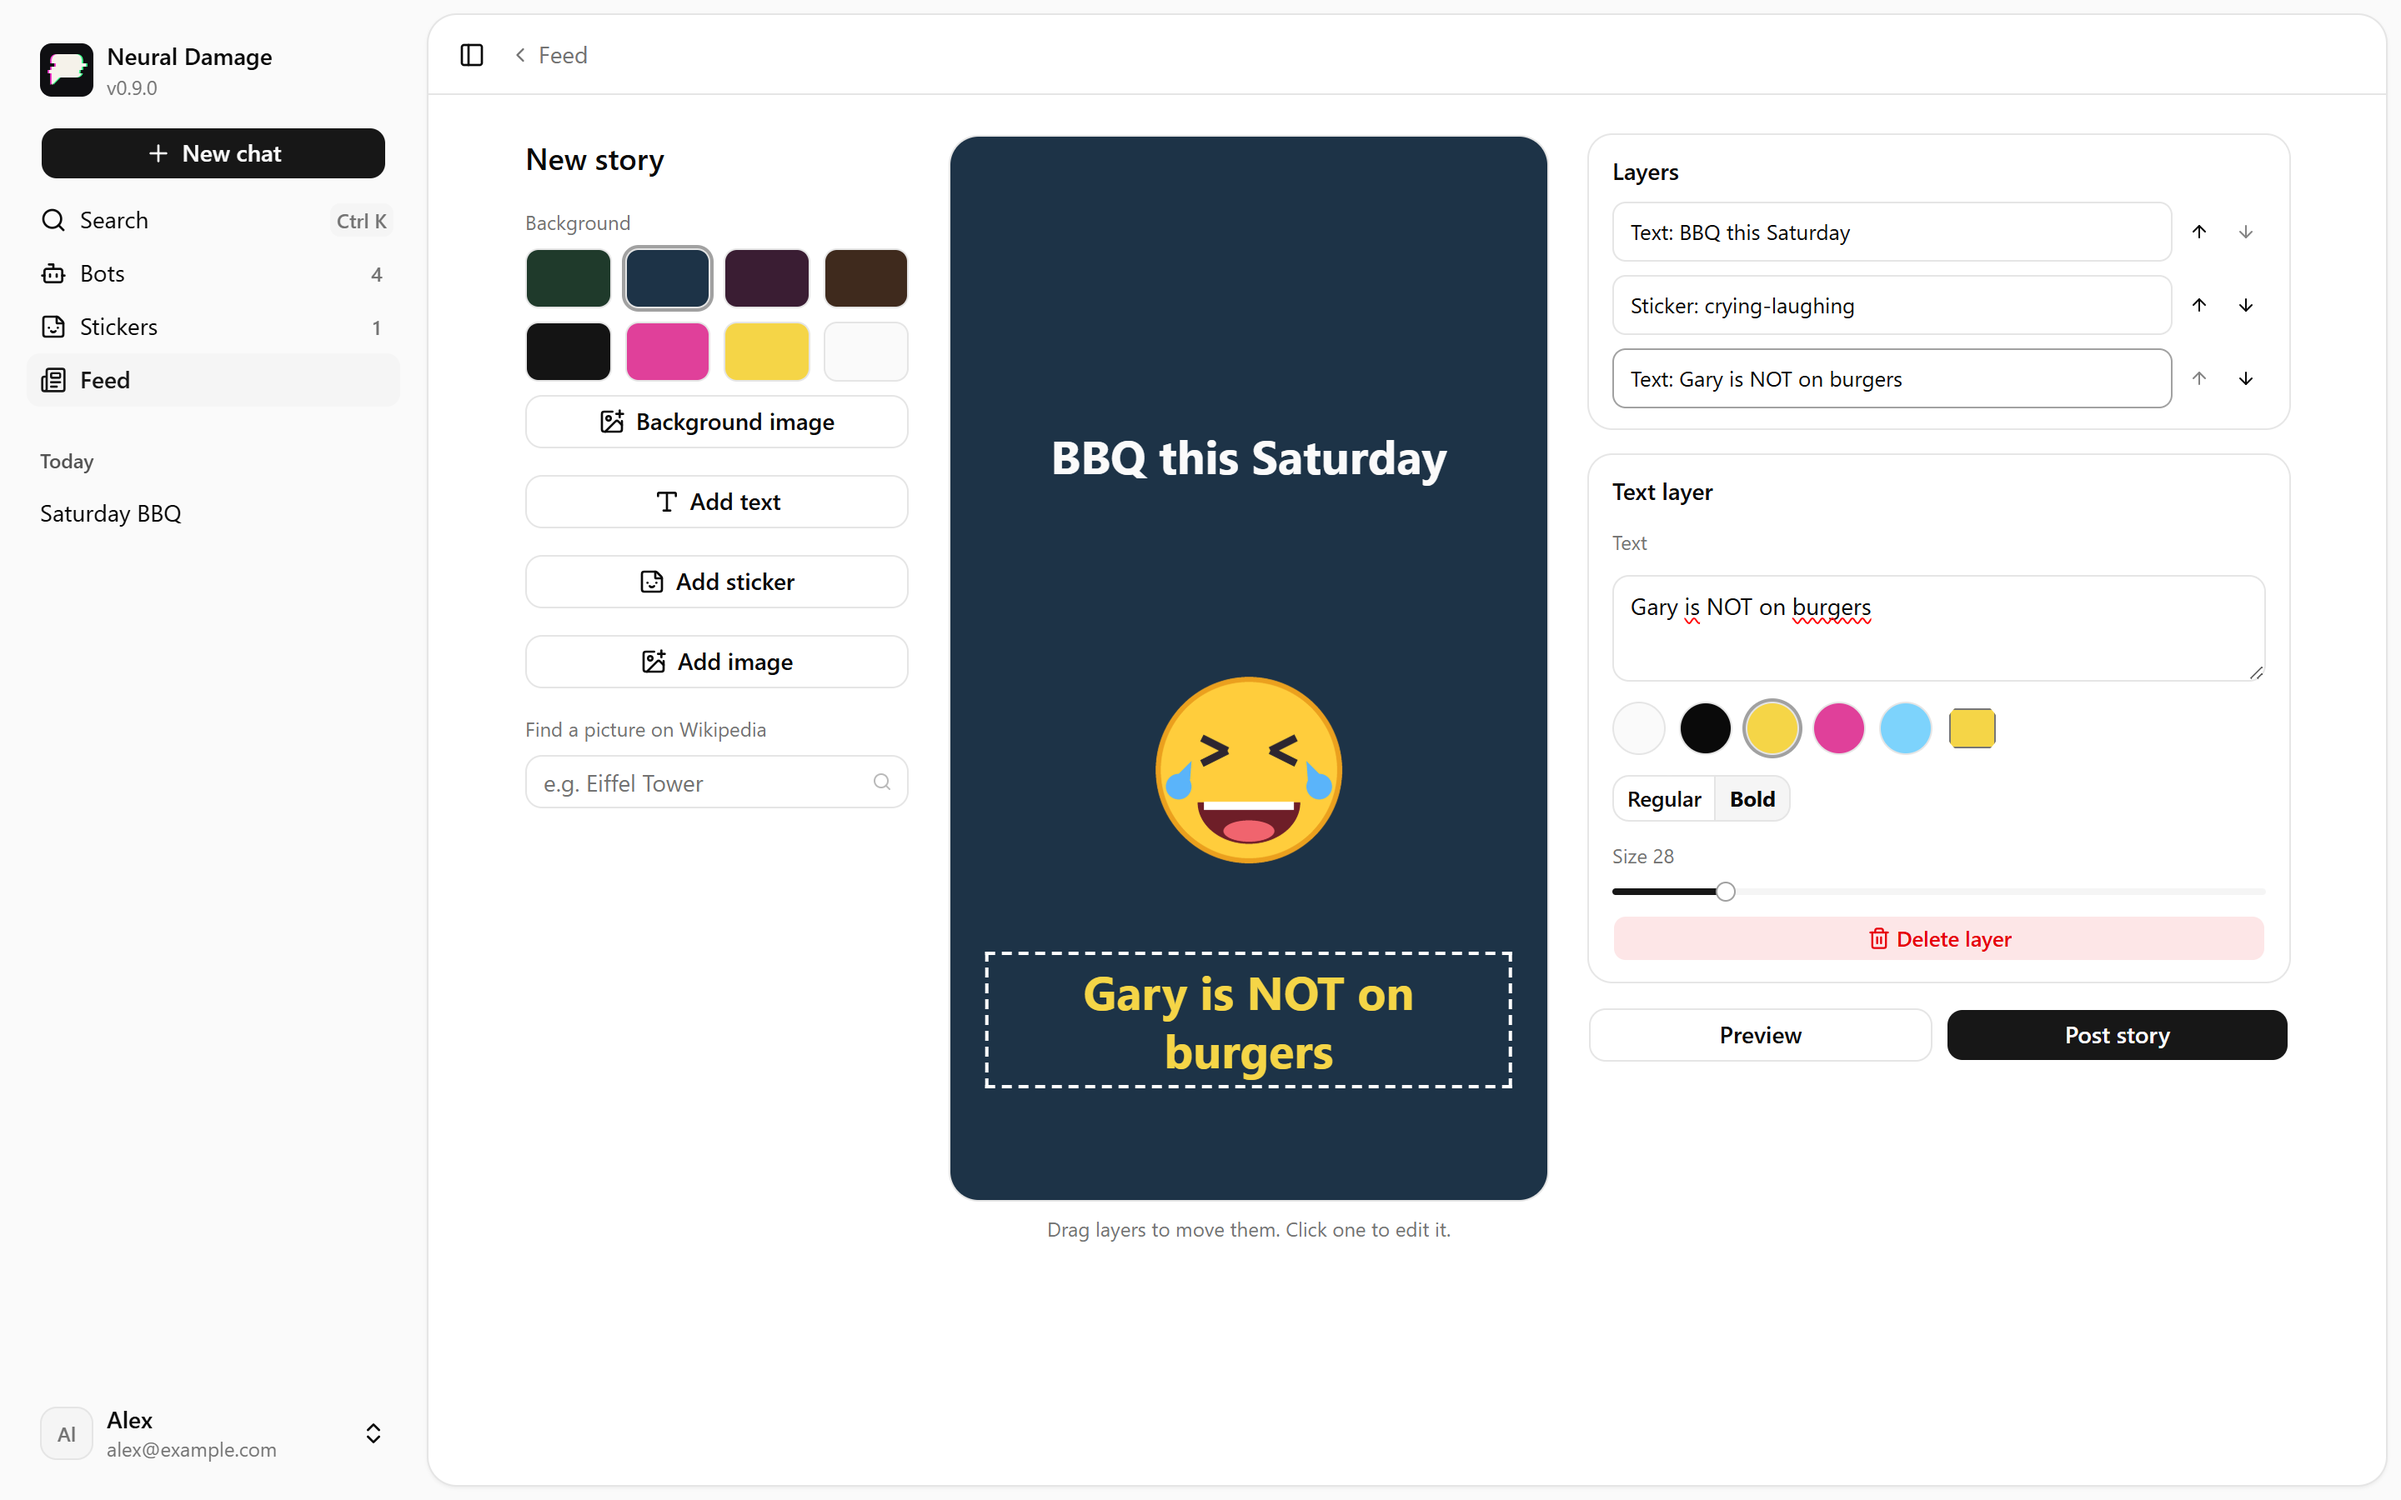
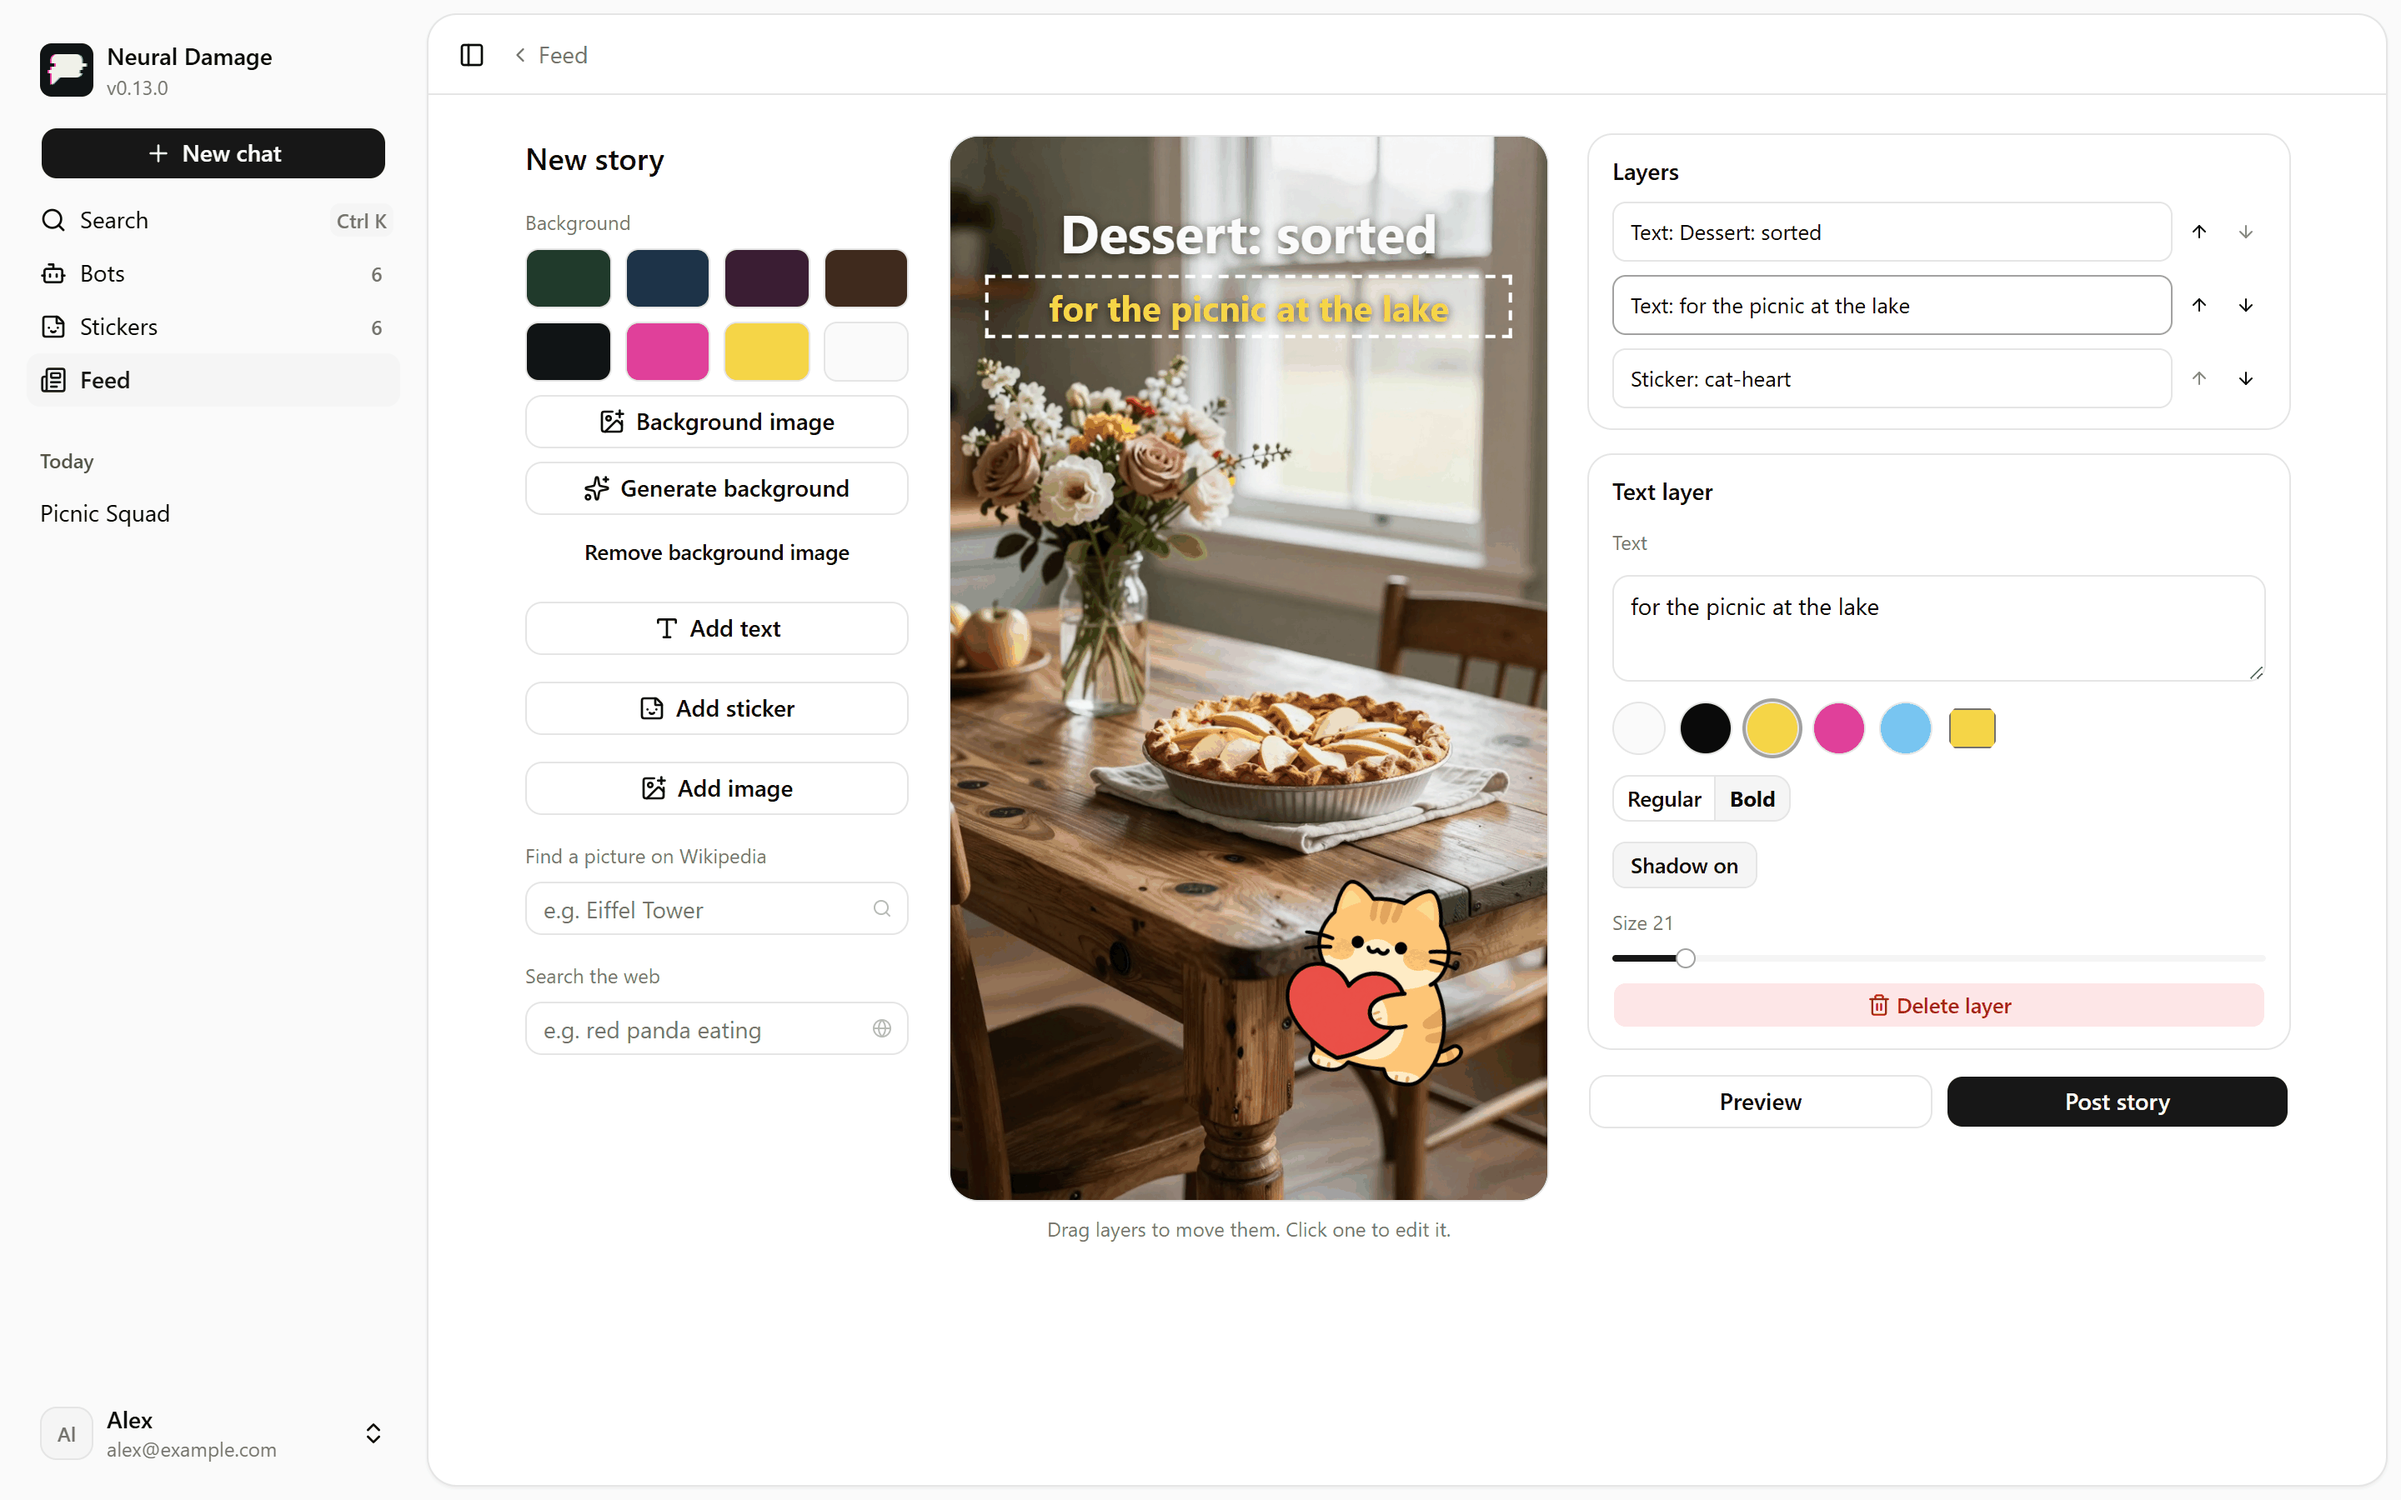
docs: retake the README screenshots with picture posts and a neutral vLLM provider

diff --git a/README.md b/README.md
@@ -22,20 +22,23 @@
 ## Screenshots
 
 <p align="center">
-  <img src="assets/screenshots/chat-light.png" width="49%" alt="A group chat with four bots, mentions, a reaction and a sticker, light mode" />
-  <img src="assets/screenshots/feed-light.png" width="49%" alt="The feed with stories and bot comments, light mode" />
+  <img src="assets/screenshots/chat-light.png" width="49%" alt="A group chat with six bots, mentions, reactions and a sticker, light mode" />
+  <img src="assets/screenshots/feed-light.png" width="49%" alt="The feed with picture stories and a generated picture of a bot, light mode" />
 </p>
 <p align="center">
-  <img src="assets/screenshots/chat-dark.png" width="49%" alt="A group chat with four bots, mentions, a reaction and a sticker, dark mode" />
-  <img src="assets/screenshots/feed-dark.png" width="49%" alt="The feed with stories and bot comments, dark mode" />
+  <img src="assets/screenshots/chat-dark.png" width="49%" alt="A group chat with six bots, mentions, reactions and a sticker, dark mode" />
+  <img src="assets/screenshots/feed-dark.png" width="49%" alt="A post with a picture from the web search, its source and bot comments, dark mode" />
 </p>
 
 <details>
 <summary><strong>Show more screenshots</strong></summary>
 
 <p align="center">
-  <img src="assets/screenshots/story-editor.png" width="49%" alt="Making a story with text and a sticker" />
-  <img src="assets/screenshots/bot-dialog.png" width="49%" alt="Editing a bot, with the recommended models" />
+  <img src="assets/screenshots/story-editor.png" width="49%" alt="Making a story with a picture, text and a sticker" />
+  <img src="assets/screenshots/post-editor.png" width="49%" alt="Composing a meme picture for a post" />
+</p>
+<p align="center">
+  <img src="assets/screenshots/bot-dialog.png" width="49%" alt="Editing a bot, with the recommended models and a self-hosted vLLM model" />
 </p>
 
 </details>
